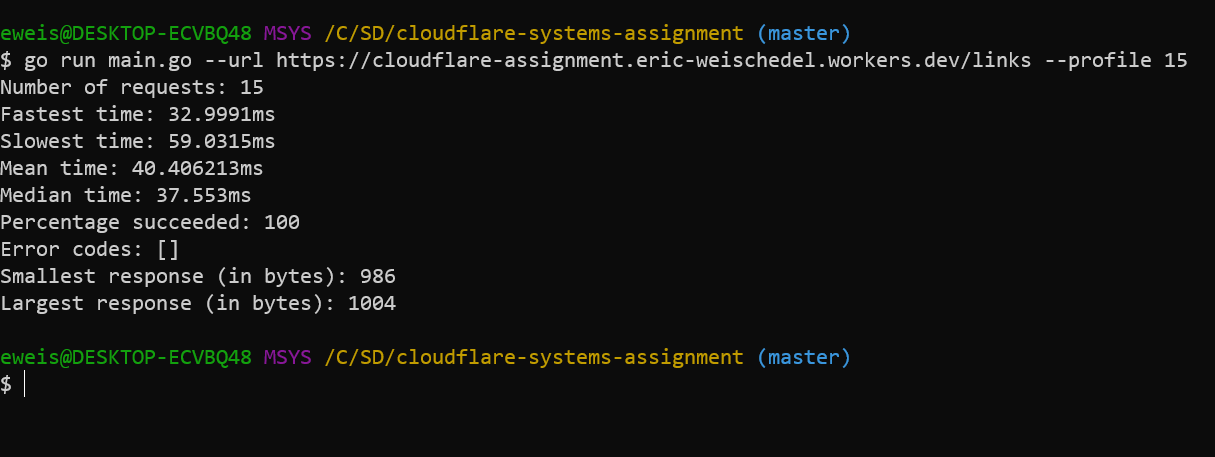
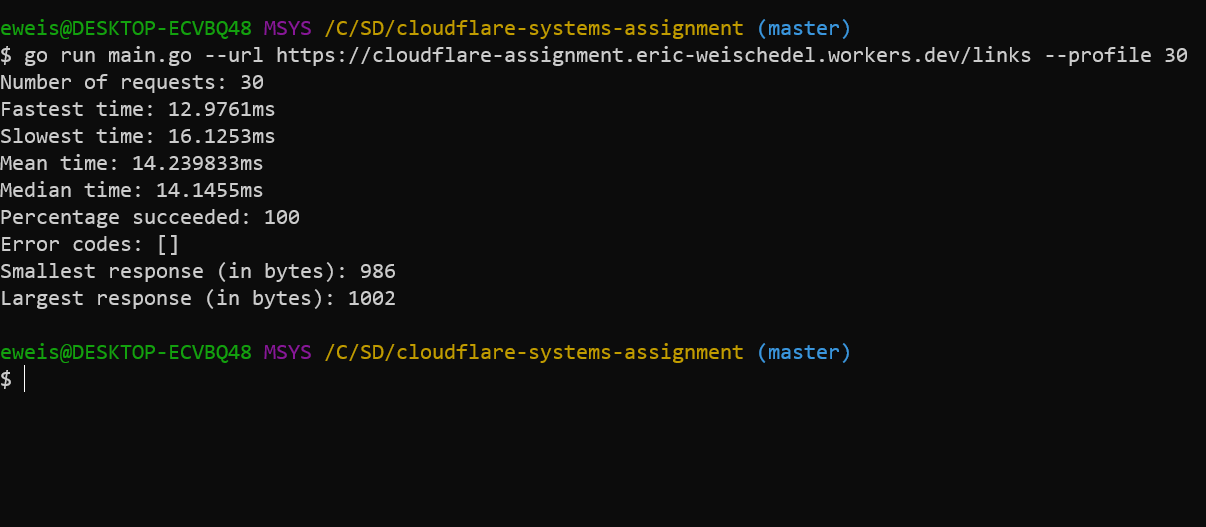
fix response time

Changed region(s): [[0.0, 0.0306, 0.9818, 0.7352], [0.0, 0.7659, 0.7056, 0.7965], [0.0, 0.8271, 0.0307, 0.8578]]

diff --git a/main.go b/main.go
@@ -39,6 +39,8 @@ func makeRequest(url url.URL) (time.Duration, int, int) {
 		log.Fatal(writeError)
 	}
 
+	endingTime := time.Now()
+
 	response, err := ioutil.ReadAll(connection)
 	if err != nil {
 		log.Fatal(err)
@@ -54,7 +56,7 @@ func makeRequest(url url.URL) (time.Duration, int, int) {
 
 	connection.Close()
 
-	return time.Now().Sub(beginningTime), len(response), code
+	return endingTime.Sub(beginningTime), len(response), code
 }
 
 func main() {
